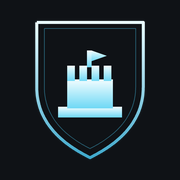
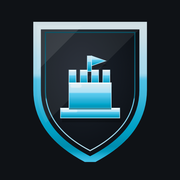
Give the crest depth, and redraw everything cut from it
The mark was flat while the rest of the page is not, so it was redrawn
with relief - built from geometry and gradients rather than SVG lighting
filters, which browsers disagree about and which every rasteriser skips
in silence, so the favicon would have come out flat with no error
anywhere. The gradient stops are interpolated perceptually and emitted
as hex, since SVG gradients have no perceptual interpolation of their
own; chroma is held inside sRGB, because clipping per channel pins red
at zero and squeezes the whole ramp into blue, which is what flattens
the pieces against each other.

Five copies carry it: the title icon, which alone declares the five
#crest* gradients and the clip path, and the footer plus both halves of
the shield that breaks, which point at them by id. assets/logo.svg keeps
its own. The silhouette is untouched, so the clip paths the break
animation is cut on still line up.

The halo around the title icon drops from .45 to .36. The crest carries
its own highlight now, and the page's glow on top of it read as haze.

Every icon file but one is this same SVG rasterised, so the shield in a
tab and the shield in the header are one drawing rather than two kept in
step by hand. The exception is the 16px favicon, written pixel by pixel:
the fortress lands in about seven pixels square there, and reducing a
curved shape that far leaves half-tints along every edge, which at that
size is the blur itself.
[…]

Changed region(s): [[0.1667, 0.1111, 0.8333, 0.9167]]

diff --git a/index.html b/index.html
@@ -44,7 +44,22 @@
   servers, so the CSP does not apply to it - and the URL has to be
   absolute for the same reason. 1200x630 is the frame every unfurl is
   built around. JPEG because WhatsApp drops previews it judges too
-  heavy: 103 KB here against the PNG's 357 KB.
+  heavy: measured on 29/09/2026, 130 KB here against 400 KB as a PNG,
+  with WhatsApp reported to start refusing around 300 KB.
+
+  Three things about the file itself, each of which was wrong before and
+  showed it. WhatsApp CENTRE-CROPS the card, so everything that has to
+  survive - crest, title, domain - fits inside the middle 630px, which
+  is the narrowest crop any platform applies. It is saved without chroma
+  subsampling, because the card is almost entirely cyan text on a dark
+  ground and 4:2:0 stores colour at half resolution, which is what put
+  the fringes on the old one. And its background is the page's own,
+  rebuilt from css/base.css rather than approximated: ground, the photo
+  at the same 22% 42% crop under the same filter, the scrim, then the
+  embers. The piece that matters there is mix-blend-mode:luminosity -
+  it throws the photo's colour away and returns only its light and dark
+  in the site's slate, which is why the page has no blue sky in it and
+  why a card that kept one made the crest look pasted on.
 -->
 <!--
   One address for this page, named in the page itself. GitHub Pages
@@ -104,10 +119,16 @@
   will not show an icon it cannot crawl, and a data: URI gives it
   nothing to fetch. Its formats are BMP, GIF, ICO, PNG, JPEG, PPM and
   TIFF, not SVG, and the icon has to be square while the crest is
-  160x190 - so both files are that crest centred on a square, drawn from
-  the same assets/logo.svg the page already uses.
+  160x190 - so all three are that crest centred on a square.
 
-  The third is for a home screen on iOS, which fills transparency with
+  Every size but one is this crest rasterised, so the shield here and
+  the shield in a tab are the same drawing rather than two drawings kept
+  in step by hand. The exception is 16, which is written pixel by pixel:
+  the whole fortress lands in about seven pixels square there, and
+  reducing a curved shape that far leaves half-tints along every edge -
+  at 16px those half-tints ARE the blur.
+
+  The last is for a home screen on iOS, which fills transparency with
   black - so it carries the page's own background, and sits smaller in
   its square because iOS rounds the corners itself.
 -->
@@ -179,26 +200,21 @@
   <div class="title-row">
     <svg width="27" height="32" viewBox="0 0 160 190" aria-hidden="true" xmlns="http://www.w3.org/2000/svg">
       <defs>
-        <linearGradient id="iceGrad" x1="0" y1="0" x2="0" y2="1">
-          <stop offset="0%" stop-color="#f2fdff"/>
-          <stop offset="100%" stop-color="#6fd8f5"/>
-        </linearGradient>
-        <linearGradient id="shieldEdge" x1="0" y1="0" x2="0" y2="1">
-          <stop offset="0%" stop-color="#eafcff"/>
-          <stop offset="100%" stop-color="#3fa9cc"/>
-        </linearGradient>
+        <linearGradient id="crestface" x1="0" y1="0" x2="0" y2="1"><stop offset="0.00%" stop-color="#dae7ed"/><stop offset="11.77%" stop-color="#cfe6ef"/><stop offset="23.53%" stop-color="#bae3f3"/><stop offset="35.30%" stop-color="#aee2f4"/><stop offset="37.10%" stop-color="#9adcf3"/><stop offset="38.90%" stop-color="#72d0f0"/><stop offset="40.70%" stop-color="#59caee"/><stop offset="52.03%" stop-color="#4cc2e6"/><stop offset="63.37%" stop-color="#2eb3d9"/><stop offset="74.70%" stop-color="#15abd2"/><stop offset="79.70%" stop-color="#00a6cc"/><stop offset="84.70%" stop-color="#009bbf"/><stop offset="89.70%" stop-color="#0096b9"/><stop offset="93.13%" stop-color="#00a3c8"/><stop offset="96.57%" stop-color="#34bae0"/><stop offset="100.00%" stop-color="#4cc6eb"/></linearGradient>
+        <linearGradient id="crestrim" x1="0" y1="0" x2="0" y2="1"><stop offset="0.00%" stop-color="#d0dee3"/><stop offset="11.77%" stop-color="#c5dce5"/><stop offset="23.53%" stop-color="#b0d9e9"/><stop offset="35.30%" stop-color="#a4d8eb"/><stop offset="37.10%" stop-color="#91d2e9"/><stop offset="38.90%" stop-color="#68c6e6"/><stop offset="40.70%" stop-color="#4ec0e4"/><stop offset="52.03%" stop-color="#40b8dd"/><stop offset="63.37%" stop-color="#1caacf"/><stop offset="74.70%" stop-color="#00a2c7"/><stop offset="79.70%" stop-color="#009cc0"/><stop offset="84.70%" stop-color="#0092b4"/><stop offset="89.70%" stop-color="#008cad"/><stop offset="93.13%" stop-color="#0099bc"/><stop offset="96.57%" stop-color="#24b0d6"/><stop offset="100.00%" stop-color="#40bce1"/></linearGradient>
+        <linearGradient id="crestrimin" x1="0" y1="0" x2="0" y2="1"><stop offset="0%" stop-color="#06566a"/><stop offset="55%" stop-color="#137e9a"/><stop offset="57%" stop-color="#6bd4f6"/><stop offset="100%" stop-color="#c6f0ff"/></linearGradient>
+        <radialGradient id="crestwell" cx="42%" cy="34%" r="78%"><stop offset="0%" stop-color="#1d242e"/><stop offset="100%" stop-color="#090c10"/></radialGradient>
+        <clipPath id="crestclip"><path d="M10,10 H150 V95 C150,145 112,172 80,188 C48,172 10,145 10,95 Z"/></clipPath>
       </defs>
-      <path d="M10,10 H150 V95 C150,145 112,172 80,188 C48,172 10,145 10,95 Z" fill="#0f1216" stroke="url(#shieldEdge)" stroke-width="4"/>
-      <path d="M20,18 H140 V95 C140,138 108,162 80,176 C52,162 20,138 20,95 Z" fill="none" stroke="#3fa9cc" stroke-width="1" opacity="0.5"/>
-      <g fill="url(#iceGrad)" transform="translate(38,55)">
-        <rect x="0" y="66" width="84" height="14"/>
-        <rect x="12" y="30" width="60" height="38"/>
-        <rect x="12" y="12" width="10" height="20"/>
-        <rect x="28" y="12" width="10" height="20"/>
-        <rect x="44" y="12" width="10" height="20"/>
-        <rect x="60" y="12" width="10" height="20"/>
-        <rect x="38" y="-8" width="6" height="22"/>
-        <path d="M44,-8 L64,-1 L44,6 Z"/>
+      <path d="M10,10 H150 V95 C150,145 112,172 80,188 C48,172 10,145 10,95 Z" fill="url(#crestwell)" stroke="url(#crestrim)" stroke-width="10.0"/>
+      <g clip-path="url(#crestclip)"><path d="M10,10 H150 L10,150 Z" fill="#ffffff" opacity=".07"/><path d="M10,10 H70 L10,70 Z" fill="#f7fdff" opacity=".10"/></g>
+      <path d="M21,19 H139 V95 C139,137 107,161 80,175 C53,161 21,137 21,95 Z" fill="none" stroke="url(#crestrimin)" stroke-width="1.4" opacity=".9"/>
+      <g transform="translate(38,55) translate(42,36) scale(0.930) translate(-42,-36)"><g fill="#000" opacity="0.24" transform="translate(2,6)"><rect x="0" y="66" width="84" height="14"/><rect x="12" y="30" width="60" height="38"/><rect x="12" y="12" width="10" height="20"/><rect x="28" y="12" width="10" height="20"/><rect x="44" y="12" width="10" height="20"/><rect x="60" y="12" width="10" height="20"/><rect x="38" y="-8" width="6" height="22"/><path d="M44,-8 L64,-1 L44,6 Z"/></g>
+        <g fill="url(#crestface)"><rect x="0" y="66" width="84" height="14"/><rect x="12" y="30" width="60" height="38"/><rect x="12" y="12" width="10" height="20"/><rect x="28" y="12" width="10" height="20"/><rect x="44" y="12" width="10" height="20"/><rect x="60" y="12" width="10" height="20"/><rect x="38" y="-8" width="6" height="22"/><path d="M44,-8 L64,-1 L44,6 Z"/></g>
+        <g fill="none" stroke="#c6f0ff" stroke-width="1" stroke-opacity="0.80"><rect x="0" y="66" width="84" height="14"/><rect x="12" y="30" width="60" height="38"/><rect x="12" y="12" width="10" height="20"/><rect x="28" y="12" width="10" height="20"/><rect x="44" y="12" width="10" height="20"/><rect x="60" y="12" width="10" height="20"/><rect x="38" y="-8" width="6" height="22"/><path d="M44,-8 L64,-1 L44,6 Z"/></g>
+        <g fill="#f7fdff"><rect x="0" y="66" width="84" height="1.8"/><rect x="12" y="30" width="60" height="1.8"/><rect x="12" y="12" width="10" height="1.5"/><rect x="28" y="12" width="10" height="1.5"/><rect x="44" y="12" width="10" height="1.5"/><rect x="60" y="12" width="10" height="1.5"/></g>
+        <g fill="#ffffff" opacity="0.35"><rect x="14" y="32" width="16" height="5" rx="2.5"/><rect x="2" y="68" width="22" height="4" rx="2"/></g>
+        <g fill="#00657e" opacity=".75"><rect x="12" y="65.6" width="60" height="2.4"/></g>
       </g>
     </svg>
     <h1>WvW Relink Checker</h1>
@@ -303,16 +319,15 @@ One More Guild Name"></textarea>
   <div class="gw2-band-inner">
     <div class="gw2-band-brand">
       <svg class="gw2-band-crest" width="24" height="28" viewBox="0 0 160 190" aria-hidden="true" xmlns="http://www.w3.org/2000/svg">
-        <path d="M10,10 H150 V95 C150,145 112,172 80,188 C48,172 10,145 10,95 Z" fill="#0f1216" stroke="url(#shieldEdge)" stroke-width="4"/>
-        <g fill="url(#iceGrad)" transform="translate(38,55)">
-          <rect x="0" y="66" width="84" height="14"/>
-          <rect x="12" y="30" width="60" height="38"/>
-          <rect x="12" y="12" width="10" height="20"/>
-          <rect x="28" y="12" width="10" height="20"/>
-          <rect x="44" y="12" width="10" height="20"/>
-          <rect x="60" y="12" width="10" height="20"/>
-          <rect x="38" y="-8" width="6" height="22"/>
-          <path d="M44,-8 L64,-1 L44,6 Z"/>
+        <path d="M10,10 H150 V95 C150,145 112,172 80,188 C48,172 10,145 10,95 Z" fill="url(#crestwell)" stroke="url(#crestrim)" stroke-width="10.0"/>
+        <g clip-path="url(#crestclip)"><path d="M10,10 H150 L10,150 Z" fill="#ffffff" opacity=".07"/><path d="M10,10 H70 L10,70 Z" fill="#f7fdff" opacity=".10"/></g>
+        <path d="M21,19 H139 V95 C139,137 107,161 80,175 C53,161 21,137 21,95 Z" fill="none" stroke="url(#crestrimin)" stroke-width="1.4" opacity=".9"/>
+        <g transform="translate(38,55) translate(42,36) scale(0.930) translate(-42,-36)"><g fill="#000" opacity="0.24" transform="translate(2,6)"><rect x="0" y="66" width="84" height="14"/><rect x="12" y="30" width="60" height="38"/><rect x="12" y="12" width="10" height="20"/><rect x="28" y="12" width="10" height="20"/><rect x="44" y="12" width="10" height="20"/><rect x="60" y="12" width="10" height="20"/><rect x="38" y="-8" width="6" height="22"/><path d="M44,-8 L64,-1 L44,6 Z"/></g>
+          <g fill="url(#crestface)"><rect x="0" y="66" width="84" height="14"/><rect x="12" y="30" width="60" height="38"/><rect x="12" y="12" width="10" height="20"/><rect x="28" y="12" width="10" height="20"/><rect x="44" y="12" width="10" height="20"/><rect x="60" y="12" width="10" height="20"/><rect x="38" y="-8" width="6" height="22"/><path d="M44,-8 L64,-1 L44,6 Z"/></g>
+          <g fill="none" stroke="#c6f0ff" stroke-width="1" stroke-opacity="0.80"><rect x="0" y="66" width="84" height="14"/><rect x="12" y="30" width="60" height="38"/><rect x="12" y="12" width="10" height="20"/><rect x="28" y="12" width="10" height="20"/><rect x="44" y="12" width="10" height="20"/><rect x="60" y="12" width="10" height="20"/><rect x="38" y="-8" width="6" height="22"/><path d="M44,-8 L64,-1 L44,6 Z"/></g>
+          <g fill="#f7fdff"><rect x="0" y="66" width="84" height="1.8"/><rect x="12" y="30" width="60" height="1.8"/><rect x="12" y="12" width="10" height="1.5"/><rect x="28" y="12" width="10" height="1.5"/><rect x="44" y="12" width="10" height="1.5"/><rect x="60" y="12" width="10" height="1.5"/></g>
+          <g fill="#ffffff" opacity="0.35"><rect x="14" y="32" width="16" height="5" rx="2.5"/><rect x="2" y="68" width="22" height="4" rx="2"/></g>
+          <g fill="#00657e" opacity=".75"><rect x="12" y="65.6" width="60" height="2.4"/></g>
         </g>
       </svg>
       <span class="gw2-band-words">
@@ -334,39 +349,37 @@ One More Guild Name"></textarea>
 </footer>
 
 <div class="impact-overlay" id="impactOverlay" aria-hidden="true">
-  <!-- Reuses the #iceGrad and #shieldEdge gradients defined in the title icon's <defs> above -->
+  <!-- Reuses the five #crest* gradients and the clip path defined in the
+       title icon's <defs> above - ids are document-scoped, so they are
+       declared once and pointed at from here, the footer and both halves. -->
   <div class="impact-ring"></div>
   <div class="impact-ring impact-ring--slow"></div>
   <div class="impact-stack">
     <div class="crest-half crest-half--l">
     <svg class="impact-crest" viewBox="0 0 160 190" xmlns="http://www.w3.org/2000/svg">
-      <path d="M10,10 H150 V95 C150,145 112,172 80,188 C48,172 10,145 10,95 Z" fill="#0f1216" stroke="url(#shieldEdge)" stroke-width="4"/>
-      <path d="M20,18 H140 V95 C140,138 108,162 80,176 C52,162 20,138 20,95 Z" fill="none" stroke="#3fa9cc" stroke-width="1" opacity="0.5"/>
-      <g fill="url(#iceGrad)" transform="translate(38,55)">
-        <rect x="0" y="66" width="84" height="14"/>
-        <rect x="12" y="30" width="60" height="38"/>
-        <rect x="12" y="12" width="10" height="20"/>
-        <rect x="28" y="12" width="10" height="20"/>
-        <rect x="44" y="12" width="10" height="20"/>
-        <rect x="60" y="12" width="10" height="20"/>
-        <rect x="38" y="-8" width="6" height="22"/>
-        <path d="M44,-8 L64,-1 L44,6 Z"/>
+      <path d="M10,10 H150 V95 C150,145 112,172 80,188 C48,172 10,145 10,95 Z" fill="url(#crestwell)" stroke="url(#crestrim)" stroke-width="10.0"/>
+      <g clip-path="url(#crestclip)"><path d="M10,10 H150 L10,150 Z" fill="#ffffff" opacity=".07"/><path d="M10,10 H70 L10,70 Z" fill="#f7fdff" opacity=".10"/></g>
+      <path d="M21,19 H139 V95 C139,137 107,161 80,175 C53,161 21,137 21,95 Z" fill="none" stroke="url(#crestrimin)" stroke-width="1.4" opacity=".9"/>
+      <g transform="translate(38,55) translate(42,36) scale(0.930) translate(-42,-36)"><g fill="#000" opacity="0.24" transform="translate(2,6)"><rect x="0" y="66" width="84" height="14"/><rect x="12" y="30" width="60" height="38"/><rect x="12" y="12" width="10" height="20"/><rect x="28" y="12" width="10" height="20"/><rect x="44" y="12" width="10" height="20"/><rect x="60" y="12" width="10" height="20"/><rect x="38" y="-8" width="6" height="22"/><path d="M44,-8 L64,-1 L44,6 Z"/></g>
+        <g fill="url(#crestface)"><rect x="0" y="66" width="84" height="14"/><rect x="12" y="30" width="60" height="38"/><rect x="12" y="12" width="10" height="20"/><rect x="28" y="12" width="10" height="20"/><rect x="44" y="12" width="10" height="20"/><rect x="60" y="12" width="10" height="20"/><rect x="38" y="-8" width="6" height="22"/><path d="M44,-8 L64,-1 L44,6 Z"/></g>
+        <g fill="none" stroke="#c6f0ff" stroke-width="1" stroke-opacity="0.80"><rect x="0" y="66" width="84" height="14"/><rect x="12" y="30" width="60" height="38"/><rect x="12" y="12" width="10" height="20"/><rect x="28" y="12" width="10" height="20"/><rect x="44" y="12" width="10" height="20"/><rect x="60" y="12" width="10" height="20"/><rect x="38" y="-8" width="6" height="22"/><path d="M44,-8 L64,-1 L44,6 Z"/></g>
+        <g fill="#f7fdff"><rect x="0" y="66" width="84" height="1.8"/><rect x="12" y="30" width="60" height="1.8"/><rect x="12" y="12" width="10" height="1.5"/><rect x="28" y="12" width="10" height="1.5"/><rect x="44" y="12" width="10" height="1.5"/><rect x="60" y="12" width="10" height="1.5"/></g>
+        <g fill="#ffffff" opacity="0.35"><rect x="14" y="32" width="16" height="5" rx="2.5"/><rect x="2" y="68" width="22" height="4" rx="2"/></g>
+        <g fill="#00657e" opacity=".75"><rect x="12" y="65.6" width="60" height="2.4"/></g>
       </g>
     </svg>
     </div>
     <div class="crest-half crest-half--r">
     <svg class="impact-crest" viewBox="0 0 160 190" xmlns="http://www.w3.org/2000/svg">
-      <path d="M10,10 H150 V95 C150,145 112,172 80,188 C48,172 10,145 10,95 Z" fill="#0f1216" stroke="url(#shieldEdge)" stroke-width="4"/>
-      <path d="M20,18 H140 V95 C140,138 108,162 80,176 C52,162 20,138 20,95 Z" fill="none" stroke="#3fa9cc" stroke-width="1" opacity="0.5"/>
-      <g fill="url(#iceGrad)" transform="translate(38,55)">
-        <rect x="0" y="66" width="84" height="14"/>
-        <rect x="12" y="30" width="60" height="38"/>
-        <rect x="12" y="12" width="10" height="20"/>
-        <rect x="28" y="12" width="10" height="20"/>
-        <rect x="44" y="12" width="10" height="20"/>
-        <rect x="60" y="12" width="10" height="20"/>
-        <rect x="38" y="-8" width="6" height="22"/>
-        <path d="M44,-8 L64,-1 L44,6 Z"/>
+      <path d="M10,10 H150 V95 C150,145 112,172 80,188 C48,172 10,145 10,95 Z" fill="url(#crestwell)" stroke="url(#crestrim)" stroke-width="10.0"/>
+      <g clip-path="url(#crestclip)"><path d="M10,10 H150 L10,150 Z" fill="#ffffff" opacity=".07"/><path d="M10,10 H70 L10,70 Z" fill="#f7fdff" opacity=".10"/></g>
+      <path d="M21,19 H139 V95 C139,137 107,161 80,175 C53,161 21,137 21,95 Z" fill="none" stroke="url(#crestrimin)" stroke-width="1.4" opacity=".9"/>
+      <g transform="translate(38,55) translate(42,36) scale(0.930) translate(-42,-36)"><g fill="#000" opacity="0.24" transform="translate(2,6)"><rect x="0" y="66" width="84" height="14"/><rect x="12" y="30" width="60" height="38"/><rect x="12" y="12" width="10" height="20"/><rect x="28" y="12" width="10" height="20"/><rect x="44" y="12" width="10" height="20"/><rect x="60" y="12" width="10" height="20"/><rect x="38" y="-8" width="6" height="22"/><path d="M44,-8 L64,-1 L44,6 Z"/></g>
+        <g fill="url(#crestface)"><rect x="0" y="66" width="84" height="14"/><rect x="12" y="30" width="60" height="38"/><rect x="12" y="12" width="10" height="20"/><rect x="28" y="12" width="10" height="20"/><rect x="44" y="12" width="10" height="20"/><rect x="60" y="12" width="10" height="20"/><rect x="38" y="-8" width="6" height="22"/><path d="M44,-8 L64,-1 L44,6 Z"/></g>
+        <g fill="none" stroke="#c6f0ff" stroke-width="1" stroke-opacity="0.80"><rect x="0" y="66" width="84" height="14"/><rect x="12" y="30" width="60" height="38"/><rect x="12" y="12" width="10" height="20"/><rect x="28" y="12" width="10" height="20"/><rect x="44" y="12" width="10" height="20"/><rect x="60" y="12" width="10" height="20"/><rect x="38" y="-8" width="6" height="22"/><path d="M44,-8 L64,-1 L44,6 Z"/></g>
+        <g fill="#f7fdff"><rect x="0" y="66" width="84" height="1.8"/><rect x="12" y="30" width="60" height="1.8"/><rect x="12" y="12" width="10" height="1.5"/><rect x="28" y="12" width="10" height="1.5"/><rect x="44" y="12" width="10" height="1.5"/><rect x="60" y="12" width="10" height="1.5"/></g>
+        <g fill="#ffffff" opacity="0.35"><rect x="14" y="32" width="16" height="5" rx="2.5"/><rect x="2" y="68" width="22" height="4" rx="2"/></g>
+        <g fill="#00657e" opacity=".75"><rect x="12" y="65.6" width="60" height="2.4"/></g>
       </g>
     </svg>
     </div>

diff --git a/css/layout.css b/css/layout.css
@@ -242,7 +242,10 @@
   .teams-notice-close{width:28px;height:28px;right:5px;}
 }
 
-.title-row svg{flex-shrink:0;filter:drop-shadow(0 0 5px rgba(140,224,255,.45));}
+/* .36, down from .45, and lower is the point: the crest carries its own
+   highlight now, so a halo on top of it reads as haze. The footer copy has no
+   filter at all and is the reference for how much is enough. */
+.title-row svg{flex-shrink:0;filter:drop-shadow(0 0 5px rgba(140,224,255,.36));}
 h1{
   font-family:Cambria,Georgia,'Times New Roman',serif;
   font-size:1.7rem;margin:0;letter-spacing:1.5px;text-transform:uppercase;
